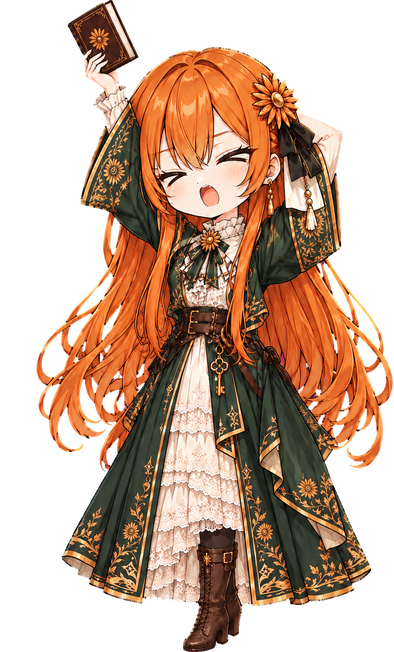
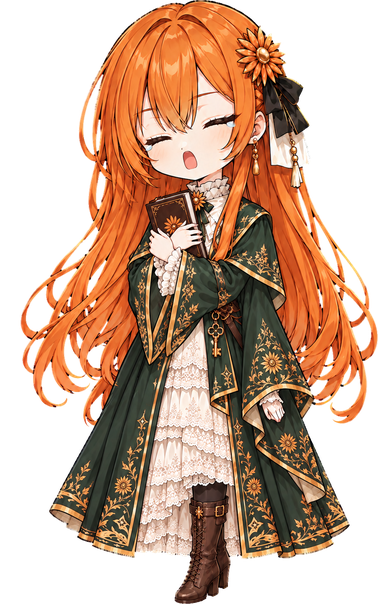
Wake up with a yawn instead of a broken stretch
The stretch frames lost or misplaced the hand behind her head in most outfits. Until a
proper stretch is drawn, the stretch frame is each outfit's sleep frame with only the face
changed to the yawn: the model drew the face, and everything outside it is the sleep frame.

diff --git a/README.md b/README.md
@@ -27,7 +27,7 @@ A small pixel-art Claude that lives on your macOS desktop. You can chat with it,
 - **Usage.** The menu-bar ✦ shows today's output tokens. The menu breaks usage down per account (output, input including cache, number of sessions) and shows the context size of the latest session.
 - **Usage panel.** Right-click the pet for a panel with your plan limits per account (5-hour and weekly, with Opus / Sonnet when your plan has them), the same percentages and reset times as `/usage` in Claude Code, plus today's tokens and what is running now. The first time, macOS asks whether ClaudePet may read Claude Code's login from the keychain; choose Always Allow.
 - **Voice.** What she says types into the bubble a character at a time, about 11 a second, with a short pause at commas and sentence ends; long text speeds up so it finishes in about 5 seconds. Her mouth moves while it types. Pick the sound under Voice in Settings or the menu: **Off**, **Soft** or **8-bit**. **Soft** is a 50 ms sine on a note from C5 to A5, at most every 0.18 s (about every other Chinese character); **8-bit** is a 25% pulse on G5, slightly detuned, with a quick fade, one per character, like an old game's text box. The notes are picked from the text itself, so the same line always has the same tune.
-- **Pixel animation.** She blinks every few seconds. Now and then she reads her book, and very rarely she yawns. While a Claude Code session works she mostly writes in her book with a quill. After 5 minutes with nothing going on she dozes off hugging the book; clicking her startles her awake, and a message or a new task wakes her with a stretch. When a task finishes she stretches. A full-body pose stays up at least a second, so she never flickers between them. Every pose is a full frame with only the eyes and mouth changed, so nothing gets stretched.
+- **Pixel animation.** She blinks every few seconds. Now and then she reads her book, and very rarely she yawns. While a Claude Code session works she mostly writes in her book with a quill. After 5 minutes with nothing going on she dozes off hugging the book; clicking her startles her awake, and a message or a new task wakes her with a big yawn, still hugging the book. When a task finishes she yawns the same way. A full-body pose stays up at least a second, so she never flickers between them. Every pose is a full frame with only the eyes and mouth changed, so nothing gets stretched.
 - **Settings.** ✦ → Settings… opens one window with a live preview of the pet and: **Size** (Small, Medium, Large), **Character**, **Voice**, **Opacity** (30% to 100%, always), **Always on top**, **See-through on hover** and **Pixel size**: Off (the smooth frames), Fine (2×2 blocks), Medium (3×3) or Coarse (4×4). Everything applies at once and is remembered.
 - **Characters.** Pick one under Character in the menu or in Settings: Claude, or Claude in another outfit: Spring (sakura haori), Summer (straw hat), Autumn (cardigan), Winter (white fur hat), Hoodie, Lab Coat or Librarian, each with the full set of faces and poses. Add your own with **Add Character…**: choose a folder laid out as below and it is copied into `~/Library/Application Support/ClaudePet/Characters/` ("Open Characters Folder…" shows it). Characters stay on your Mac, so art you can't share works too. The shipped characters are smooth 600 px frames; **Pixel size** turns them into pixel art when they load (blocks of 2 to 4 pixels, outlines kept, 64 colours taken from `closed.png` so talking and blinking don't flicker). It applies to every character, including ones you add; set it to Off to show their PNGs as they are.
 
@@ -37,7 +37,7 @@ A small pixel-art Claude that lives on your macOS desktop. You can chat with it,
     half.png  open.png   mouth half / fully open while talking
     blink_half.png  blink_closed.png
     read.png  yawn.png  surprised.png
-    sleep.png  work.png  stretch.png    full-body poses: dozing, writing, stretching
+    sleep.png  work.png  stretch.png    full-body poses: dozing, writing, waking up (yawning)
   ```
   Every PNG but `closed.png` is optional; a missing one shows `closed.png` (a missing sleep, work or stretch shows blink_closed, read or yawn). Face frames are the same size as `closed.png` with only the face changed, so nothing jumps. The full-body poses may be bigger (raised arms): they are drawn at the same scale with the same bottom centre. [docs/character-pipeline.md](docs/character-pipeline.md) shows how the outfits were made, including generating the faces from Claude's.
 - Drag the pet to move it; she reopens where you left her. The transparent area around the character is click-through. Size (in Settings) is Small, Medium or Large. It can stay on top, shows on every desktop, and has no Dock icon. With **See-through on hover** checked she fades to 30% while the pointer is over her (and back when it leaves), so you can see what is behind; she still takes clicks.
